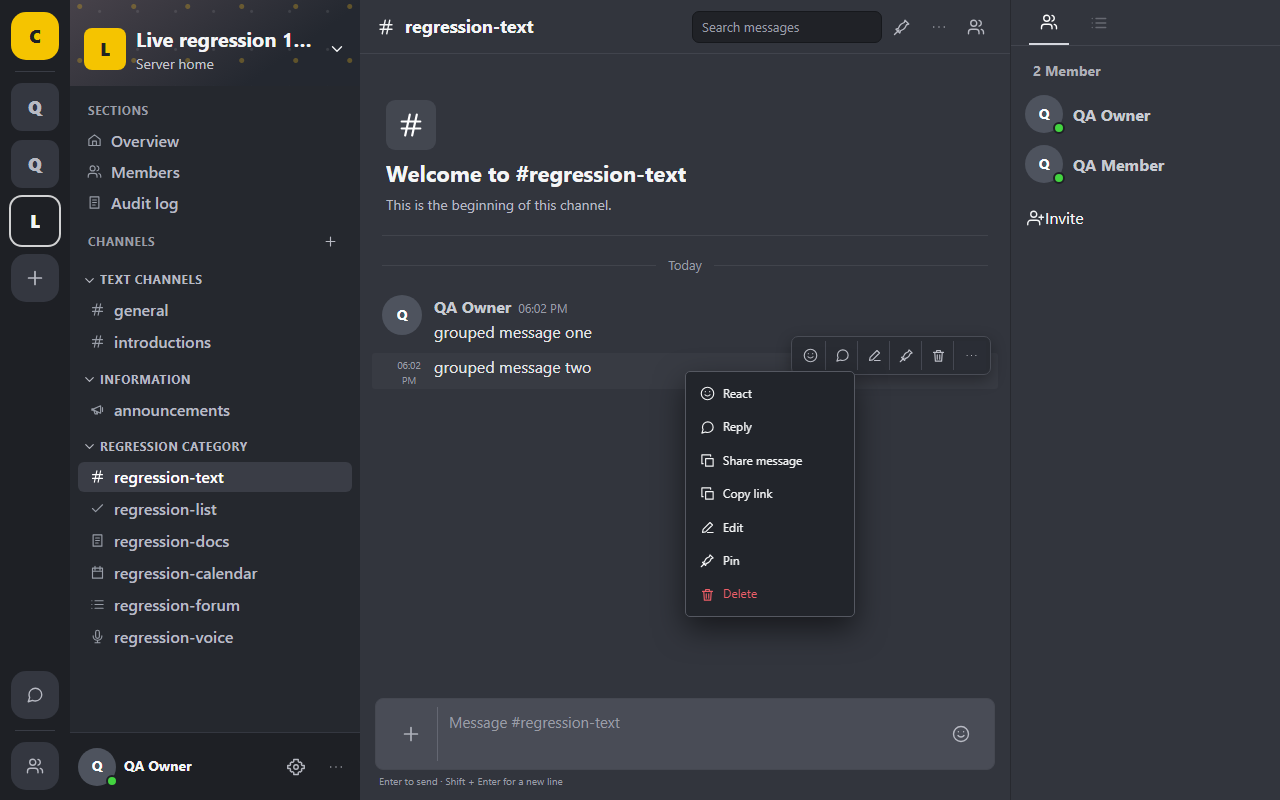
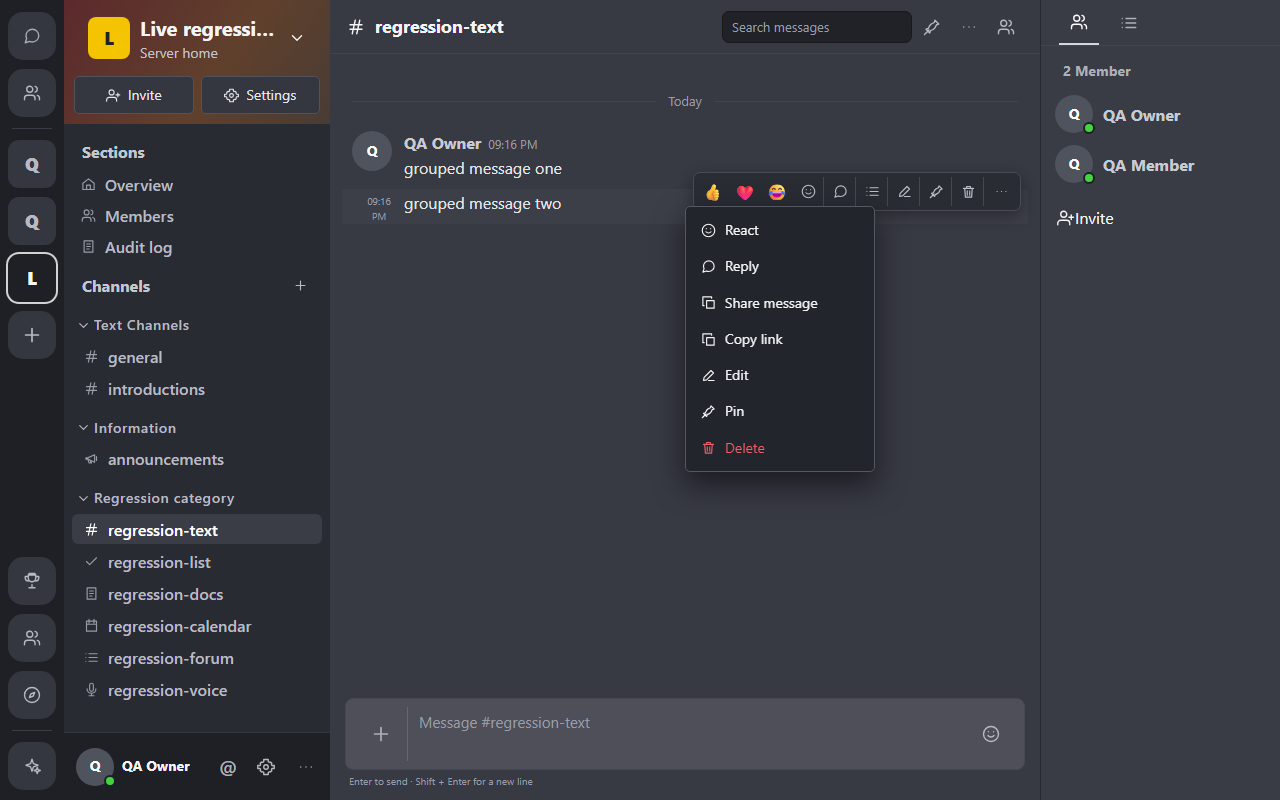
Add supported quick reactions to message toolbar

diff --git a/static/guilded.js b/static/guilded.js
@@ -893,7 +893,7 @@
         const threadMarkup = thread ? `<button class="message-thread-link" data-action="thread-open" data-id="${thread.id}">View ${Number(thread.reply_count)||0} more ${(Number(thread.reply_count)||0)===1?"reply":"replies"}${thread.archived ? " · Archived thread" : ""}</button>` : "";
         const timeLabel = new Date(item.created * 1000).toLocaleTimeString(undefined, { hour: "2-digit", minute: "2-digit" });
         const selected = replyTarget === item.id ? " reply-selected-row" : "";
-        return `${divider}<article class="message ${grouped ? "grouped" : ""}${selected}" data-message="${item.id}">${grouped ? '<span class="avatar-spacer"></span>' : avatar(user)}${grouped ? `<time class="group-timestamp" aria-label="${escapeHtml(timeLabel)}">${escapeHtml(timeLabel)}</time>` : ""}<div class="content">${grouped ? "" : `<span class="name" style="${roleTextStyle(role)}">${escapeHtml(user?.name || "Member")}</span>${roleIcon(role)}${botBadge(user)}<time>${escapeHtml(timeLabel)}</time>`}${item.pinned ? ` <span class="pinned">${icon("pin", "sm")} Pinned</span>` : ""}<p>${escapeHtml(item.body)}</p>${threadMarkup}${attachments}${item.edited ? '<span class="edited">(edited)</span>' : ""}<div>${(item.reactions || []).map((reaction) => `<button class="reaction" data-action="reaction" data-id="${item.id}" data-emoji="${escapeHtml(reaction.emoji)}">${escapeHtml(reaction.emoji)} ${reaction.count}</button>`).join("")}</div></div><div class="msgtools"><button data-action="reaction-picker" data-id="${item.id}" title="React">${icon("smile", "sm")}</button><button data-action="reply" data-id="${item.id}" title="Reply">${icon("chat", "sm")}</button>${!thread ? `<button data-action="thread-create" data-id="${item.id}" title="Start thread">${icon("list", "sm")}</button>` : ""}${item.sender === state.user.id ? `<button data-action="edit-message" data-id="${item.id}" title="Edit">${icon("edit", "sm")}</button>` : ""}${cid && can("manage_messages") ? `<button data-action="pin" data-id="${item.id}" title="${item.pinned ? "Unpin" : "Pin"}">${icon("pin", "sm")}</button>` : ""}${item.sender === state.user.id || (cid && can("manage_messages")) ? `<button data-action="quick-delete-message" data-id="${item.id}" title="Delete message">${icon("trash", "sm")}</button>` : ""}<button data-action="message-menu" data-id="${item.id}" title="More message options">${icon("more", "sm")}</button></div></article>${replyRows}`;
+        return `${divider}<article class="message ${grouped ? "grouped" : ""}${selected}" data-message="${item.id}">${grouped ? '<span class="avatar-spacer"></span>' : avatar(user)}${grouped ? `<time class="group-timestamp" aria-label="${escapeHtml(timeLabel)}">${escapeHtml(timeLabel)}</time>` : ""}<div class="content">${grouped ? "" : `<span class="name" style="${roleTextStyle(role)}">${escapeHtml(user?.name || "Member")}</span>${roleIcon(role)}${botBadge(user)}<time>${escapeHtml(timeLabel)}</time>`}${item.pinned ? ` <span class="pinned">${icon("pin", "sm")} Pinned</span>` : ""}<p>${escapeHtml(item.body)}</p>${threadMarkup}${attachments}${item.edited ? '<span class="edited">(edited)</span>' : ""}<div>${(item.reactions || []).map((reaction) => `<button class="reaction" data-action="reaction" data-id="${item.id}" data-emoji="${escapeHtml(reaction.emoji)}">${escapeHtml(reaction.emoji)} ${reaction.count}</button>`).join("")}</div></div><div class="msgtools">${["👍", "💜", "✨"].map((emoji) => `<button class="quick-reaction" data-action="reaction" data-id="${item.id}" data-emoji="${emoji}" title="React ${emoji}" aria-label="React ${emoji}">${emoji}</button>`).join("")}<button data-action="reaction-picker" data-id="${item.id}" title="More reactions">${icon("smile", "sm")}</button><button data-action="reply" data-id="${item.id}" title="Reply">${icon("chat", "sm")}</button>${!thread ? `<button data-action="thread-create" data-id="${item.id}" title="Start thread">${icon("list", "sm")}</button>` : ""}${item.sender === state.user.id ? `<button data-action="edit-message" data-id="${item.id}" title="Edit">${icon("edit", "sm")}</button>` : ""}${cid && can("manage_messages") ? `<button data-action="pin" data-id="${item.id}" title="${item.pinned ? "Unpin" : "Pin"}">${icon("pin", "sm")}</button>` : ""}${item.sender === state.user.id || (cid && can("manage_messages")) ? `<button data-action="quick-delete-message" data-id="${item.id}" title="Delete message">${icon("trash", "sm")}</button>` : ""}<button data-action="message-menu" data-id="${item.id}" title="More message options">${icon("more", "sm")}</button></div></article>${replyRows}`;
       })
       .join(
         "",

diff --git a/static/guilded-reference.css b/static/guilded-reference.css
@@ -63,6 +63,8 @@ html,body{font:16px/1.45 Inter,"Segoe UI",Arial,sans-serif}
 .msgtools{position:absolute;z-index:3;top:-17px;right:7px;display:flex;gap:2px;padding:4px;background:#292c33;border:1px solid #494c55;border-radius:7px;box-shadow:0 5px 15px #0005;opacity:0;pointer-events:none;transform:translateY(2px);transition:opacity .12s,transform .12s}
 .message:hover .msgtools,.message:focus-within .msgtools{opacity:1;pointer-events:auto;transform:none}
 .msgtools button{width:30px;height:29px;display:grid;place-items:center;border-right:1px solid #454852;border-radius:0;color:#bec0c9}
+.msgtools button.quick-reaction{font-size:16px;line-height:1;border-right:0}
+.msgtools button.quick-reaction:hover{background:#ffffff18;border-radius:5px}
 .msgtools button:last-child{border-right:0}
 .msgtools button:hover{background:#40434d;color:white}
 .composer{padding:0 15px 12px}

diff --git a/PROGRESS.md b/PROGRESS.md
@@ -86,3 +86,4 @@
 - Legacy profile highlight: DONE — hovering or keyboard-focusing the bottom identity control now shows the rounded gold outline from the User Profile reference; checked on an existing QA server at 1280/390 with restored navigation preference and no console errors (`verification/live-legacy-profile-hover-{1280,390}.png`).
 - Legacy account actions: DONE — Activity, Settings and More now share the rounded gold hover/focus outline; live Activity Log opening and 1280/390 layout checks pass with no console errors (`verification/live-legacy-activity-hover-{1280,390}.png`).
 - Legacy account menu: DONE — the More menu now matches Guilded’s wide slate panel and opens above its trigger; all actions remain visible inside 1280/390 bounds with zero console errors (`verification/live-legacy-user-menu-{1280,390}.png`).
+- Message quick reactions: DONE — added three one-click reactions from the supported server emoji set before the picker; the live Supabase reaction persisted and the 1280/390 toolbar remained in bounds with an empty console (`verification/live-quick-reaction-{1280,390}.png`).
